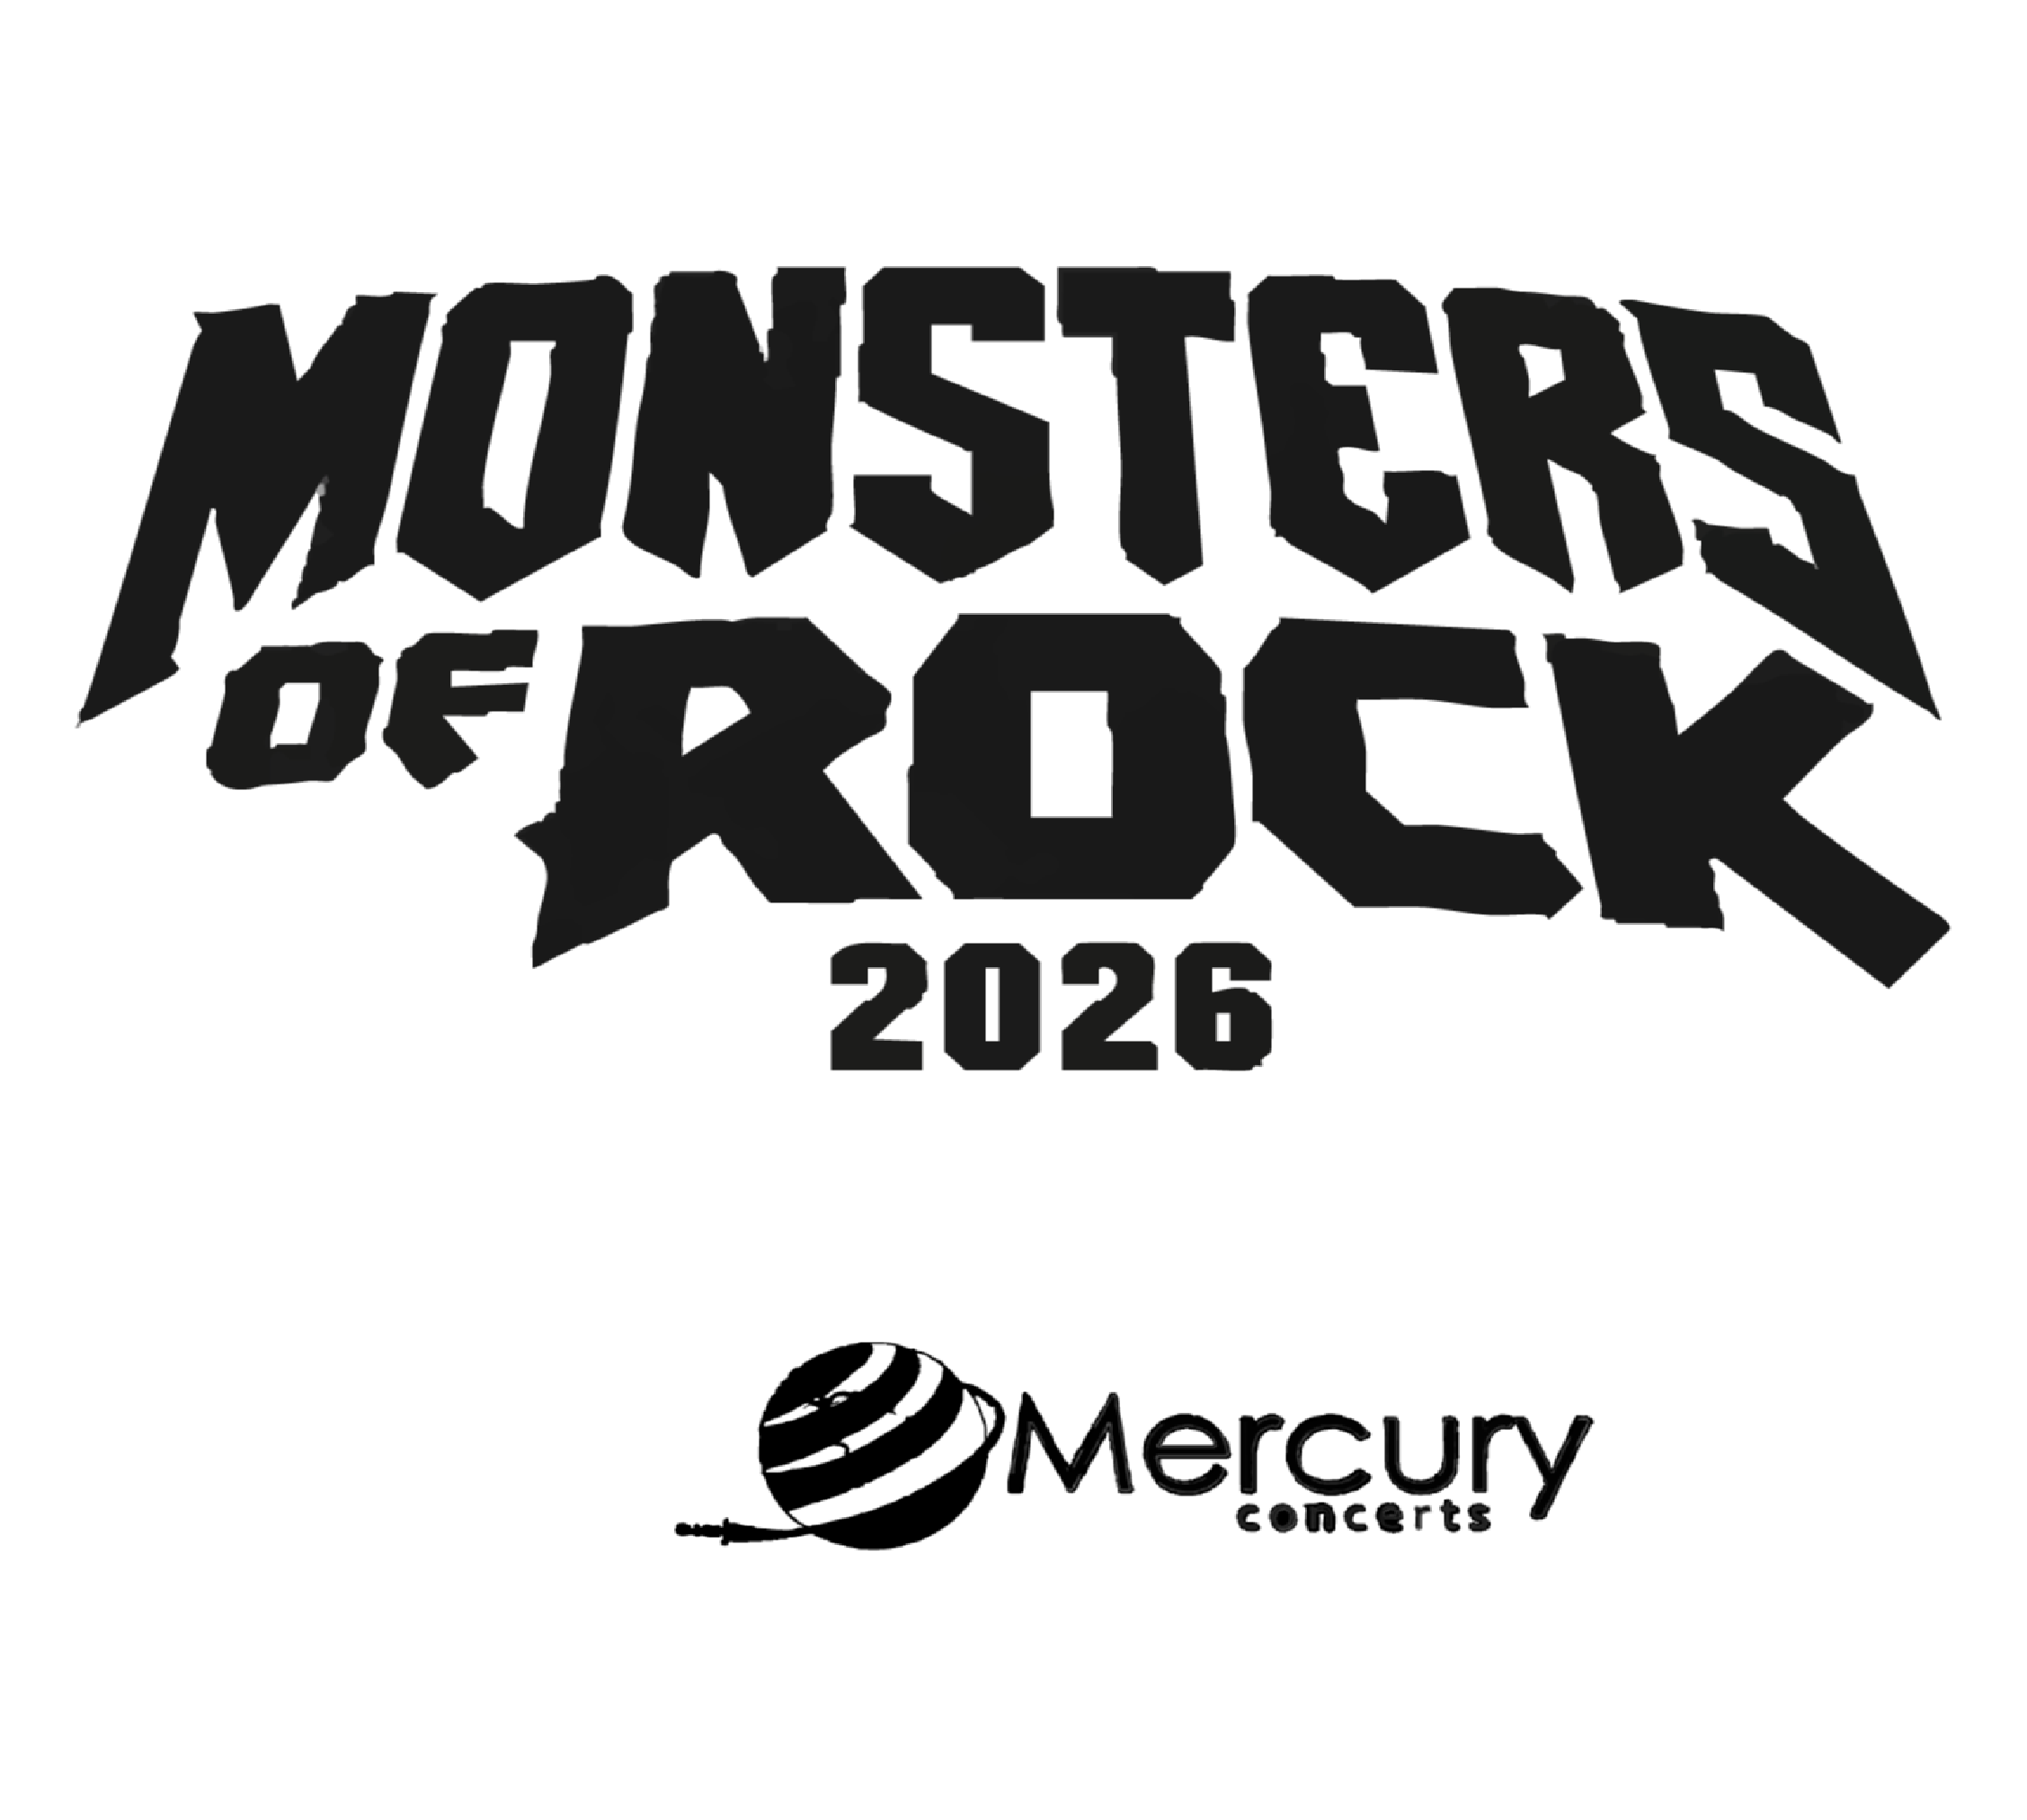
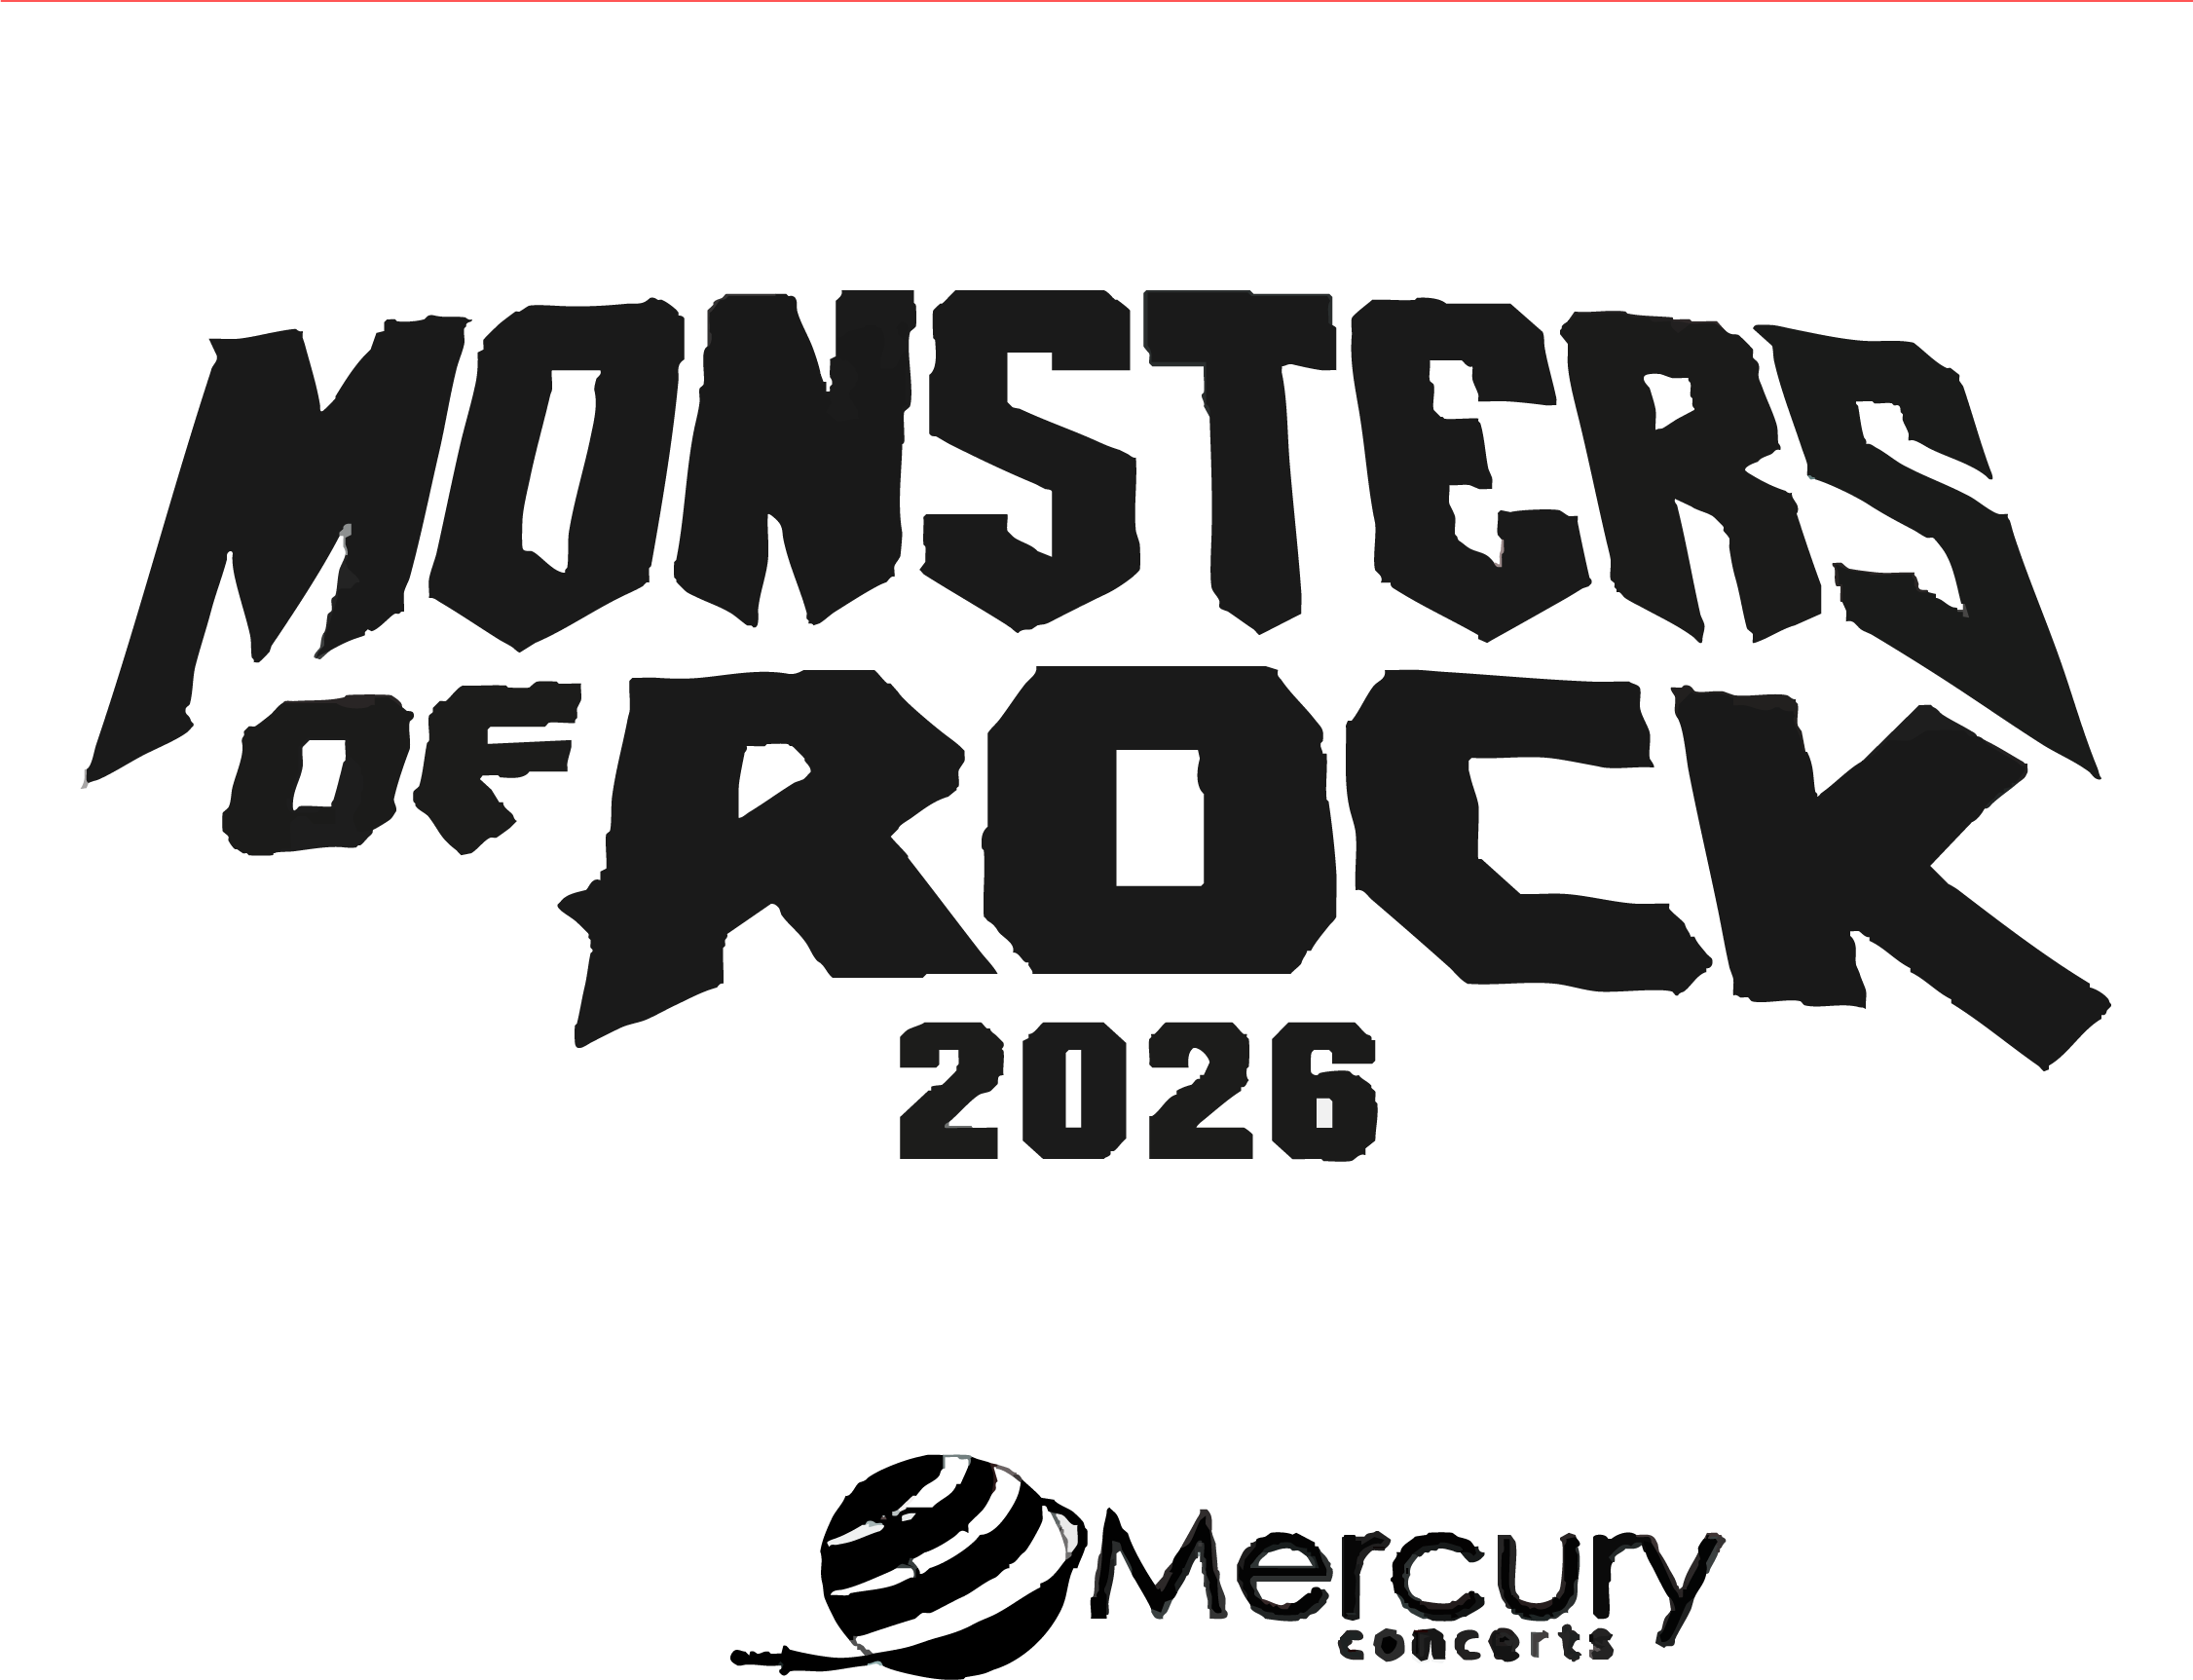
feat: implement ticket selection UI and dynamic QR code cycling logic

Changed region(s): [[0.0311, 0.1229, 0.9636, 0.7067], [0.3108, 0.7374, 0.8082, 1.0]]

diff --git a/js/app.js b/js/app.js
@@ -1,16 +1,16 @@
 const ingressos = [
 {
-    evento: "MONSTER OF ROCK 2026",
-    data: "Sábado - 04/abr/26",
+    evento: "KORN",
+    data: "Sábado - 16/mai/26",
     setor: "CADEIRA INFERIOR",
     entrada: "PORTÃO C",
     secao: "CAD. INFERIOR",
     nome: "Wagner Osório Lima",
     tipo: "INTEIRA",
-    valor: "R$ 950,00",
-    taxa: "Taxa de Serviço: R$ 207,10",
+    valor: "R$ 645,00",
+    taxa: "Taxa de Serviço: R$ 140,60",
     taxaAdm: "Taxa ADM*: R$ 21,00",
-    thumb: "assets/monster.png",
+    thumb: "assets/korn.png",
     qr: [
         "assets/qr1.png",
         "assets/qr2.png",
@@ -20,17 +20,17 @@ const ingressos = [
     ]
 },
 {
-    evento: "MONSTER OF ROCK 2026",
-    data: "sábado - 04/abr/26",
+    evento: "KORN",
+    data: "Sábado - 16/mai/26",
     setor: "CADEIRA SUPERIOR",
     entrada: "PORTÃO B",
     secao: "CAD. SUPERIOR",
     nome: "Maria Silva",
     tipo: "INTEIRA",
-    valor: "R$ 600,00",
-    taxa: "Taxa de Serviço: R$ 130,80",
+    valor: "R$ 365,00",
+    taxa: "Taxa de Serviço: R$ 79,80",
     taxaAdm: "Taxa ADM*: R$ 21,00",
-    thumb: "assets/monster.png",
+    thumb: "assets/korn.png",
     qr: [
         "assets/qr1.png",
         "assets/qr2.png",
@@ -40,17 +40,17 @@ const ingressos = [
     ]
 },
 {
-    evento: "MONSTER OF ROCK 2026",
-    data: "Sábado - 04/abr/26",
+    evento: "KORN",
+    data: "Sábado - 16/mai/26",
     setor: "PISTA PREMIUM",
     entrada: "PORTÃO B",
     secao: "PISTA PREMIUM",
     nome: "Carlos Lima",
     tipo: "INTEIRA",
-    valor: "R$ 1.350,00",
-    taxa: "Taxa de Serviço: R$ 294,30",
+    valor: "R$ 995,00",
+    taxa: "Taxa de Serviço: R$ 217,60",
     taxaAdm: "Taxa ADM*: R$ 21,00",
-    thumb: "assets/monster.png",
+    thumb: "assets/korn.png",
     qr: [
         "assets/qr1.png",
         "assets/qr2.png",
@@ -60,17 +60,17 @@ const ingressos = [
     ]
 },
 {
-    evento: "MONSTER OF ROCK 2026",
-    data: "Sábado - 04/abr/26",
+    evento: "KORN",
+    data: "Sábado - 16/mai/26",
     setor: "PISTA",
     entrada: "PORTÃO A",
     secao: "PISTA",
     nome: "Fernanda Costa",
     tipo: "INTEIRA",
-    valor: "R$ 750,00",
-    taxa: "Taxa de Serviço: R$ 163,50",
+    valor: "R$ 495,00",
+    taxa: "Taxa de Serviço: R$ 108,40",
     taxaAdm: "Taxa ADM*: R$ 21,00",
-    thumb: "assets/monster.png",
+    thumb: "assets/korn.png",
     qr: [
         "assets/qr1.png",
         "assets/qr2.png",

diff --git a/css/style.css b/css/style.css
@@ -179,7 +179,7 @@ body {
 
 .thumb-center img {
     width: 90%;
-    max-width: 500px;
+    max-width: 150px;
     height: auto;
     display: block;
 }

diff --git a/index.html b/index.html
@@ -82,7 +82,7 @@
     <div class="info-relevantes">
         <h3>INFORMAÇÕES RELEVANTES</h3>
 
-        <p><strong>ABERTURA DOS PORTÕES: 10H</strong></p>
+        <p><strong>ABERTURA DOS PORTÕES: 16h</strong></p>
 
         <p>
             Esse evento requer alvarás específicos,<br>